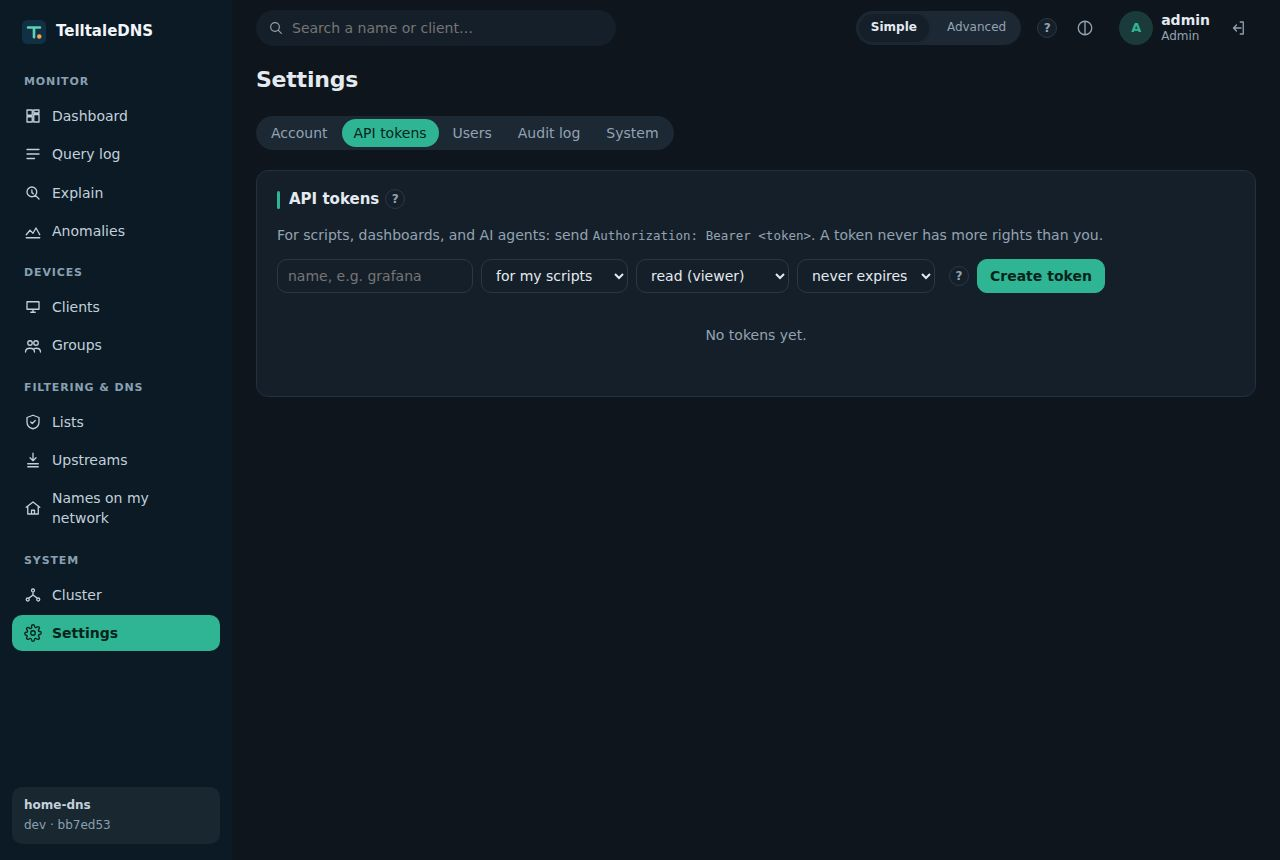
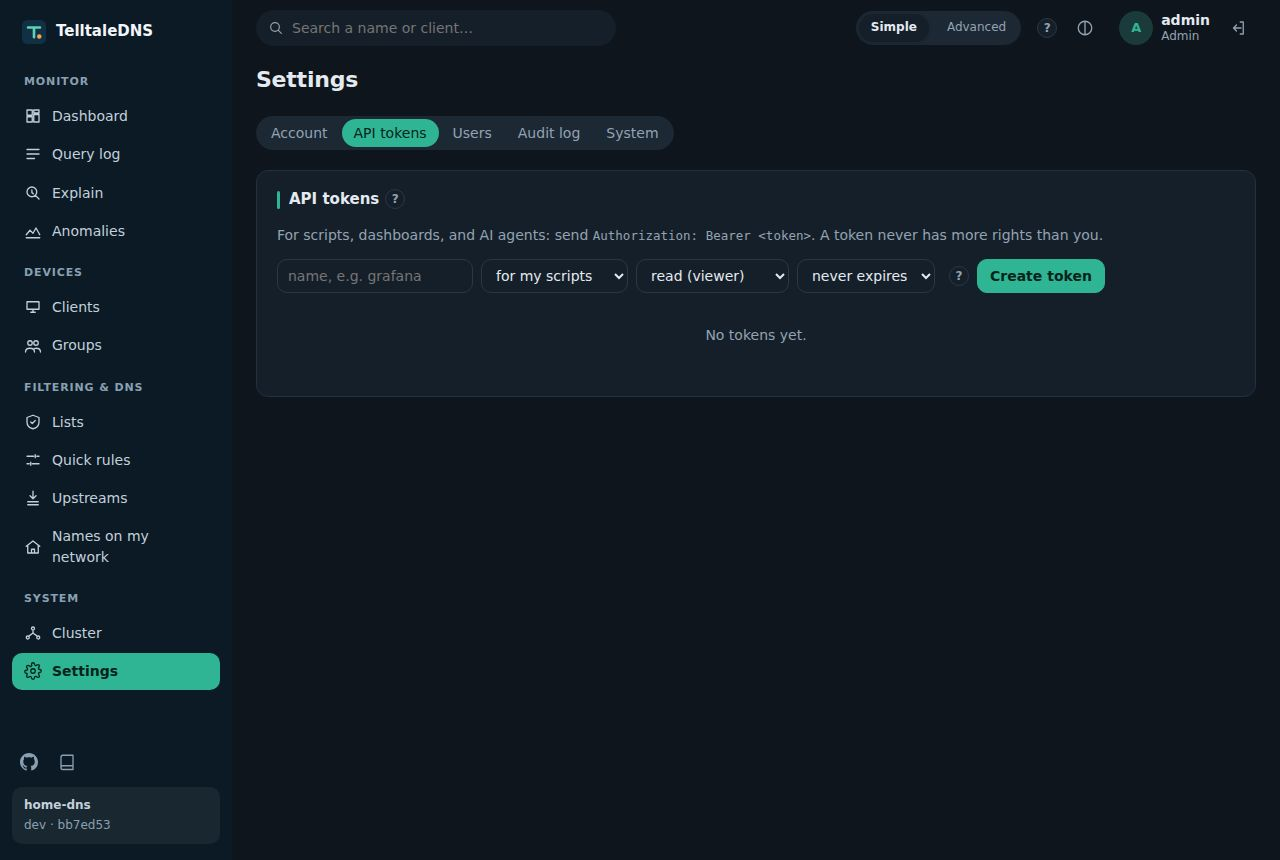
feat(ui): GitHub and project-site links above the version in the menu [API-005, DOC-006]
Icon links (GitHub mark, book) in the menu footer, opening in a new tab;
plain links, nothing is fetched. Screenshots refreshed (they now show
Quick rules in the menu). Docs: the Web UI section mentions the links,
the cache card, and the current bundle size.

Claude-Session: https://claude.ai/code/session_016n3Sksv7Fi3dC2WZV9R2xT

Changed region(s): [[0.0, 0.5744, 0.1875, 0.8163], [0.0, 0.514, 0.0938, 0.5442], [0.0, 0.8767, 0.0625, 0.907]]

diff --git a/ui/src/App.svelte b/ui/src/App.svelte
@@ -154,6 +154,15 @@
         <button class="link small" aria-pressed={currentMode() === 'advanced'} onclick={() => setMode('advanced')}>Advanced view</button>
       </span>
       <span class="spacer"></span>
+      <!-- The project: plain links, nothing is fetched (works on an offline network). -->
+      <div class="project-links">
+        <a href="https://github.com/paimonsoror/telltaledns" target="_blank" rel="noreferrer" aria-label="TelltaleDNS on GitHub" title="TelltaleDNS on GitHub">
+          <svg viewBox="0 0 16 16" width="18" height="18" aria-hidden="true"><path fill="currentColor" d="M8 0C3.58 0 0 3.58 0 8c0 3.54 2.29 6.53 5.47 7.59.4.07.55-.17.55-.38 0-.19-.01-.82-.01-1.49-2.01.37-2.53-.49-2.69-.94-.09-.23-.48-.94-.82-1.13-.28-.15-.68-.52-.01-.53.63-.01 1.08.58 1.23.82.72 1.21 1.87.87 2.33.66.07-.52.28-.87.51-1.07-1.78-.2-3.64-.89-3.64-3.95 0-.87.31-1.59.82-2.15-.08-.2-.36-1.02.08-2.12 0 0 .67-.21 2.2.82.64-.18 1.32-.27 2-.27.68 0 1.36.09 2 .27 1.53-1.04 2.2-.82 2.2-.82.44 1.1.16 1.92.08 2.12.51.56.82 1.27.82 2.15 0 3.07-1.87 3.75-3.65 3.95.29.25.54.73.54 1.48 0 1.07-.01 1.93-.01 2.2 0 .21.15.46.55.38A8.013 8.013 0 0016 8c0-4.42-3.58-8-8-8z" /></svg>
+        </a>
+        <a href="https://paimonsoror.github.io/telltaledns/" target="_blank" rel="noreferrer" aria-label="Project site and guides" title="Project site and guides">
+          <Icon name="book" size={18} />
+        </a>
+      </div>
       <!-- REQ: OPS-004 (ADR-046) — which build this is, and whether a newer one exists. -->
       {#if info?.build}
         <a class="build small" href="#/settings?tab=system" data-testid="build-footer" title={`commit ${info.build.commit}, ${info.build.target}`}>
@@ -281,6 +290,27 @@
   .count.alert {
     background: var(--bad);
     color: var(--on-bad);
+  }
+  .project-links {
+    display: flex;
+    gap: 4px;
+    margin-top: 16px;
+  }
+  .project-links a {
+    display: grid;
+    place-items: center;
+    width: 34px;
+    height: 34px;
+    border-radius: 8px;
+    color: var(--side-muted);
+  }
+  .project-links a:hover,
+  .project-links a:focus-visible {
+    background: var(--side-hover);
+    color: var(--side-text);
+  }
+  .project-links + .build {
+    margin-top: 6px;
   }
   .build {
     display: grid;

diff --git a/ui/tests/e2e/1-ui.spec.ts b/ui/tests/e2e/1-ui.spec.ts
@@ -114,6 +114,17 @@ test('explain page', async () => {
   await expect(page.locator('.explain')).toContainText('blocked');
 });
 
+test('the menu links to the project on GitHub and its site', async () => {
+  await page.goto('/#/');
+  const gh = page.getByRole('link', { name: 'TelltaleDNS on GitHub' });
+  await expect(gh).toHaveAttribute('href', 'https://github.com/paimonsoror/telltaledns');
+  await expect(gh).toHaveAttribute('target', '_blank');
+  await expect(page.getByRole('link', { name: 'Project site and guides' })).toHaveAttribute(
+    'href',
+    'https://paimonsoror.github.io/telltaledns/',
+  );
+});
+
 test('lists, groups, clients, upstreams, local DNS render', async () => {
   for (const [path, text] of [
     ['/#/lists', 'e2e-block'],

diff --git a/ui/src/lib/components/Icon.svelte b/ui/src/lib/components/Icon.svelte
@@ -19,6 +19,7 @@
     moon: 'M21 12.8A9 9 0 1 1 11.2 3a7 7 0 0 0 9.8 9.8z',
     auto: 'M12 21a9 9 0 1 0 0-18 9 9 0 0 0 0 18zM12 3v18',
     menu: 'M4 6h16M4 12h16M4 18h16',
+    book: 'M4 19.5A2.5 2.5 0 0 1 6.5 17H20V3H6.5A2.5 2.5 0 0 0 4 5.5zM4 19.5A2.5 2.5 0 0 0 6.5 22H20v-5',
     logout: 'M15 4h4v16h-4M10 8l-4 4 4 4M6 12h10',
   };
 </script>

diff --git a/docs/running.md b/docs/running.md
@@ -1136,11 +1136,13 @@ Open `http://<server>:8053/` in a browser. On first start it asks for the setup 
 | Query log | search by name (contains, exact, subdomains, wildcard, regex), client, status, type, response code, slowness, and time; each row shows how long it took and how much of that was the upstream; **Why?** explains the decision. Filters live in the URL, so a search can be bookmarked or shared. **Live** streams new matching queries as they happen (the newest 500 stay on screen) |
 | Explain | why any name is or isn't blocked for any device |
 | Clients, Groups, Lists, Upstreams | devices seen and configured; groups and their lists; list download state and size; upstream health (circuit breaker), traffic, and latency |
-| Settings | your password and two-factor sign-in, API tokens, users and the audit log (admins), and system information |
+| Settings | your password and two-factor sign-in, API tokens, users and the audit log (admins), system information, and the cache ([Cache tools](#cache-tools)) |
 
 Every chart has a **Table** view. The UI follows the system's light or dark theme (or pick one in the header) and works on phones. Lists, groups, and local records are read-only in the UI for now; edit the configuration and reload.
 
-The UI is part of the binary (about 60 KiB compressed). The page is served with a strict Content Security Policy and can't be framed.
+The menu ends with links to the project on GitHub and its site (plain links: the UI fetches nothing from the internet), then this node's name and version.
+
+The UI is part of the binary (about 100 KiB compressed). The page is served with a strict Content Security Policy and can't be framed.
 
 ## API
 A REST API (JSON) listens on `0.0.0.0:8053` by default and also serves `/metrics` and the health probes:
